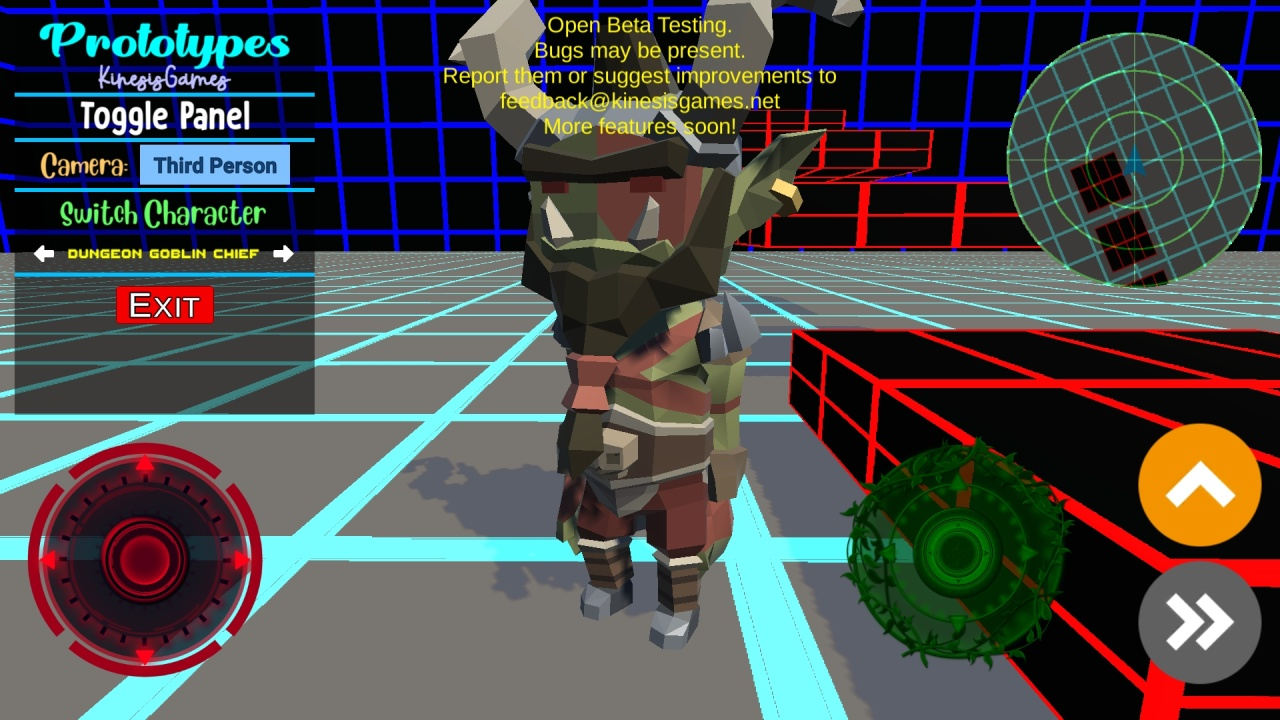
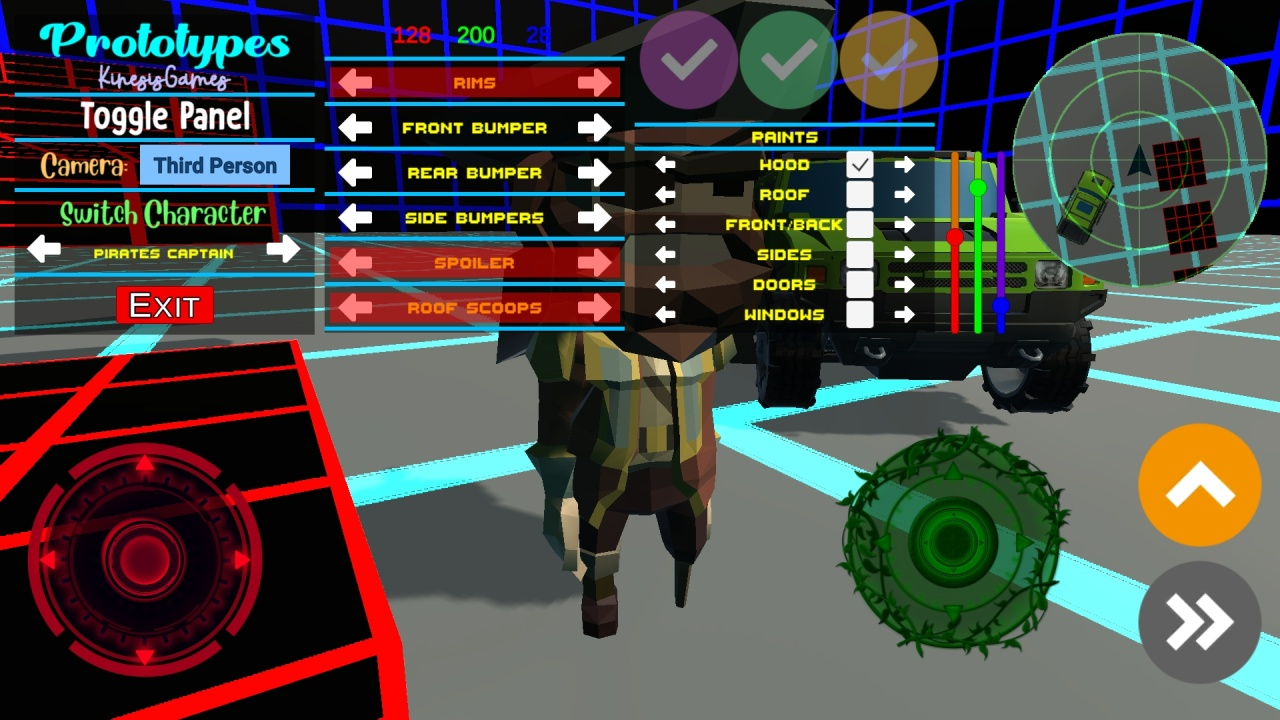
Release v0.50b3 - Prototypes

diff --git a/_posts/2019-09-29-Prototypes.md b/_posts/2019-09-29-Prototypes.md
@@ -1,7 +1,7 @@
 ---
 layout:     post
 title:      Prototypes
-date:       2019-09-25 00:00:00
+date:       2019-09-29 00:00:00
 summary:    Soon comprising of tons of features and game modes..
 status:     Active, Open Beta
 thumbnail:  
@@ -21,6 +21,15 @@ doesn't seem to be smooth enough.
 
 # Changelog
 ``` html
+  [Build 3]
+
+  * Addition of first interactable vehicle
+  * Introduction of the customisation panel
+  * Introduction of the colorPicker and paint panel
+  * Addition of menus and a progress bar
+  * Several tweaks to maximise real game view
+  * Several minimal bug fixes and improvements
+
   [Build 2]
 
   * 60 Playable Characters added (Total: 60)
@@ -39,11 +48,11 @@ doesn't seem to be smooth enough.
 ### Technical Information / Download
 
 {% highlight html %}
-Version Name: 0.3b
-Version Code: 2
+Version Name: 0.5b
+Version Code: 3
 {% endhighlight %}
 
-[Download Now!](https://github.com/KinesisGames/Builds/raw/master/builds/prototypes/Prototypes_v0.3b2.apk)
+[Download Now!](https://github.com/KinesisGames/Builds/raw/master/builds/prototypes/Prototypes_v0.5b3.apk)
 
 Send us any [feedback](mailto:feedback@kinesisgames.net) you have!
 
